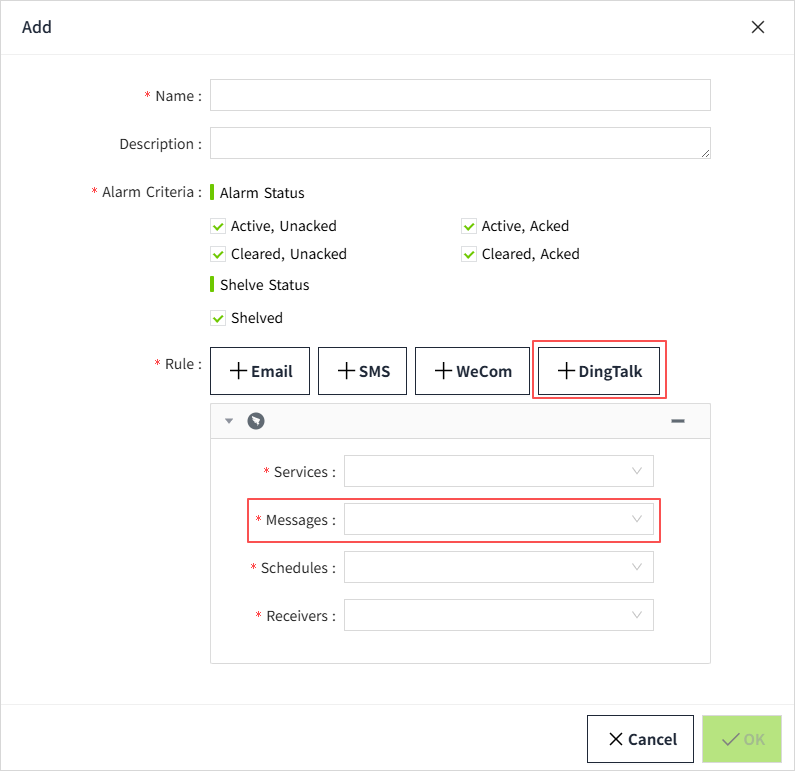
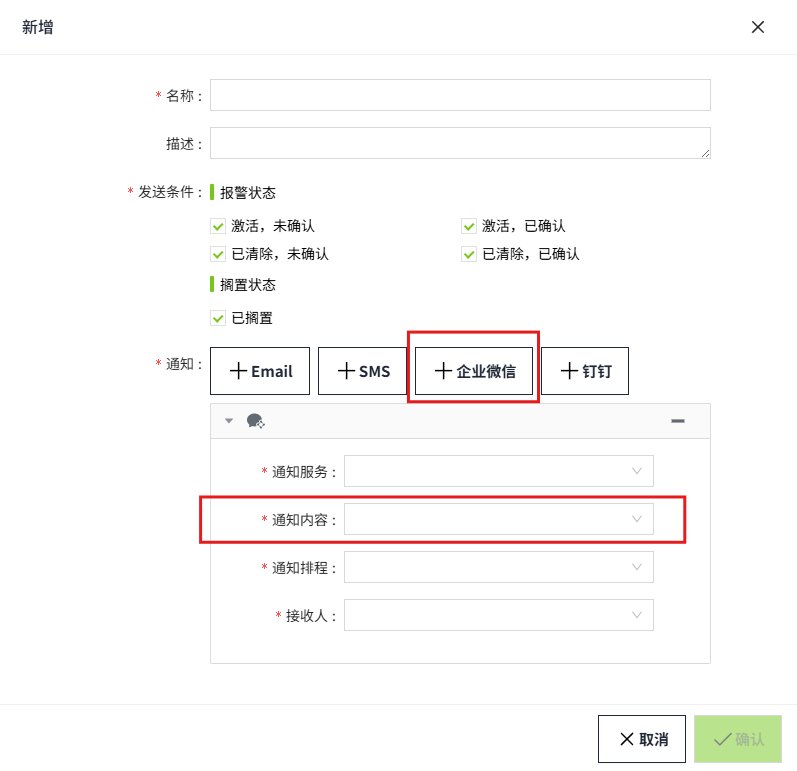
1

diff --git a/docs/management-platform/alarming/alarm-notification/messages/wecom.md b/docs/management-platform/alarming/alarm-notification/messages/wecom.md
@@ -1,33 +1,39 @@
-# WeCom
+# 企业微信
 
-Used to define the content of the notification that users receive on WeCom when an alarm is triggered. With this setting, you can customize the alarm notification message to ensure recipients can quickly understand and respond to the alarm.
+用于定义在报警触发时，用户在企业微信上收到的通知内容。通过此设置，可以自定义报警通知的内容，以确保接收者能够快速理解和响应报警信息。
 
-## Create Notification Message 
+## 创建通知内容
 
-1. Click "**Alarming** "->" **Alarm Notifications** "->"**Messages**" to enter the notification message list page.
+1. 点击“**报警**”->"**报警通知**"->"**通知内容**"，进入通知内容列表页面。
+
     ![alt text](2.png)
-2. Click the "**Add**" button. In the new pop-up window, select "WeCom".
-    ![alt text](17.png)
-3. Click "Next" to enter the detailed configuration window. 
+
+2. 点击“**新增**”按钮。在新增弹窗中选择企业微信。
+
     ![alt text](18.png)
-4. Once the setup is complete, click **"Send Test"** to check if the email is sent successfully.
-5. If the test is successful, click the **"OK"** button to add the data.
 
-**Properties**
+3. 点击下一步，进入详细配置界面。
 
-| **Name**    | **Description**  |
-|-------------|---------------|
-| Name        | The name of the notification message is required. The name is unique and cannot be repeated.|
-| Description | Description of the message of the notification, optional. |
-| Message     | The content received in the email is configured through the content settings button.   Clicking this button will bring up a content parameter dialog. The parameters set here will be replaced with actual values when an alarm occurs. To insert a parameter into the email content, click in the content window to place the cursor, then click the parameter settings button. From the parameter list, select the desired parameter by clicking on it, and it will be automatically inserted at the cursor's position. ![alt text](19.png)  **Note:**  **urlPath (alarm address parameter)** is used to construct the URL for the alarm information, which consists of the server address, port number, and the specific page path. The detailed explanation is as follows:  <br>1. **Server address and port number:** `http://localhost:4300` This means that the request will be sent to a server named "**localhost**" and accessed via port number "**4300**". When adding a new entry, the current server address and port will be automatically retrieved. <br>2. **Page path:** `/#/alarm/` This path is fixed and points to the alarm confirmation page. <br>3. **Specific path:** `{urlPath}` This is a placeholder representing the specific alarm parameter path. When receiving an actual message, this placeholder will be replaced with the real alarm parameters. |
-| Send Test   | After completing the above configuration, click the **Send Test** button to open a new window. In this window, select the previously created WeCom service, then choose one of its groups or user accounts. Finally, click **Send** to verify that the alarm notification is received in WeCom.  ![alt text](20.png) |
+    ![alt text](19.png)
 
-## How to use the WeCom Notification Service
+4. 设置完成，点击“发送测试“，测试是否成功发送。
+5. 测试成功后，点击'**确认**'按钮，添加该数据。
 
-In the alarm notification rules, you will select the notification service.
+**属性**
 
-1. Click on **"Alarming" -> "Alarm Notifications" -> "Rules"** to enter the notification rules list page.
-2. Click the **"New"** button in the upper right corner of the list.
-3. In the pop-up window, click the **'+WeCom'** button to add a new sms notification rule.In the notification message dropdown, select the previously created notification message.
+| **名称** | **描述** |
+|:----------|:-------------------------------------------------------------------------------------------------------------------------------------------------------------------------------------------------------------------------------------------------------------------------------------------------------------------------------------------------------------------------------------------------------------------------------------------------------------------------------------------------------------------------------------------------------------------------------------------------------------------------------------------------------------------------------------------------------------------------------------------------------------------------------------------------------------------------------------------------------------------------------------------------------------------------------------------------------------------------------------------------------------------------------------------------------------------------------------------------------------------------------------------------------------------------------------------------------------------------------------------------------------------------------------------------------------------------------------------------------------------------------------------------------------------|
+| 名称     | 通知内容的名称，必填项，名称唯一、不可重复。|
+| 描述     | 通知内容的描述信息，可选填。 |
+| 内容     | 设置报警通知的内容。  点击内容的设置按钮，弹出内容参数弹窗。此处设置的参数，在报警发生时，将使用真实值进行替换。在内容窗口中点击鼠标，之后再点击参数的设置按钮，在参数列表中单击所需参数，该参数将自动插入到光标所在的位置。  ![alt text](20.png)   <br>**说明：**  **urlPath（报警地址参数）**用于构造报警信息的URL，它由服务器地址、端口号和具体的页面路径组成。具体解释如下：  <br>1. **服务器地址和端口号**： `http://localhost:4300` 这表示请求将被发送到一个名为"localhost"的服务器，并通过端口号"4300"进行访问，在新增的时候会自动获取当前服务器地址和端口。 <br>2. **页面路径**： `/#/alarm/` 此路径是固定的，指向报警确认页面。 <br>3. **具体路径**： `{urlPath}` 这是一个占位符，表示具体的报警参数路径。在实际接收报警通知时，会将此占位符替换为实际的报警参数。|
+| 发送测试 | 完成上述配置后，点击‘发送测试’按钮，将弹出一个新窗口。在新窗口中选择已创建的企业微信服务，并选择该服务下的微信群或者微信账号，点击‘发送’按钮即可测试在企业微信内是否能收到报警通知。  ![alt text](21.png) |
 
-    ![alt text](21.png)
+## 通知内容应用
+
+在报警的通知规则中将选择通知内容。
+
+1. 点击“**报警**”->"**报警通知**"->"**通知规则**"，进入通知规则列表页面。
+2. 点击列表右上角的“新增“按钮。
+3. 在新增弹窗中点击通知的'**+企业微信**'按钮，新增一个企业微信通知规则，在通知内容下拉列表中选择创建好的通知内容。
+
+![alt text](22.png)

diff --git a/docs/management-platform/alarming/alarm-notification/messages/sms-alicloud.md b/docs/management-platform/alarming/alarm-notification/messages/sms-alicloud.md
@@ -27,9 +27,9 @@
 | 描述         | 通知内容的描述信息，可选填。|
 | 短信签名名称 | 在阿里云短信服务中成功申请的签名名称。  ![alt text](14.png)|
 | 短信模板Code | 在阿里云短信模板管理中成功申请的模板Code。  ![alt text](15.png)|
-| 发送测试     | 完成上述配置后，点击‘发送测试’按钮，将弹出一个新窗口。在新窗口中输入用于接收测试短信的手机号码，并选择已创建的SMS(Ali Cloud)类型的通知服务，点击‘发送’按钮即可检查短信是否能正确接收。  ![alt text](16.png) |
+| 发送测试     | 完成上述配置后，点击‘发送测试’按钮，将弹出一个新窗口。在新窗口中输入用于接收测试短信的手机号码，并选择已创建的SMS(Ali Cloud)类型的通知服务，点击‘发送’按钮即可检查短信是否能正确接收。  <br>![alt text](16.png) |
 
-#### 通知内容应用
+## 通知内容应用
 
 在报警的**通知规则**中将选择通知内容。
 
@@ -37,7 +37,7 @@
 2. 点击列表右上角的“新增“按钮。
 3. 在新增弹窗中点击通知的'**+SMS**'按钮，新增一个短信通知规则，在通知内容下拉列表中选择创建好的通知内容。
 
-    [alt text](17.png)
+    ![alt text](17.png)
 
 **说明**：通知内容和通知服务必须匹配。例如，选择 SMS(Ali Cloud)类型的通知服务时，通知类型也应选择 SMS(Ali Cloud)。 
 
